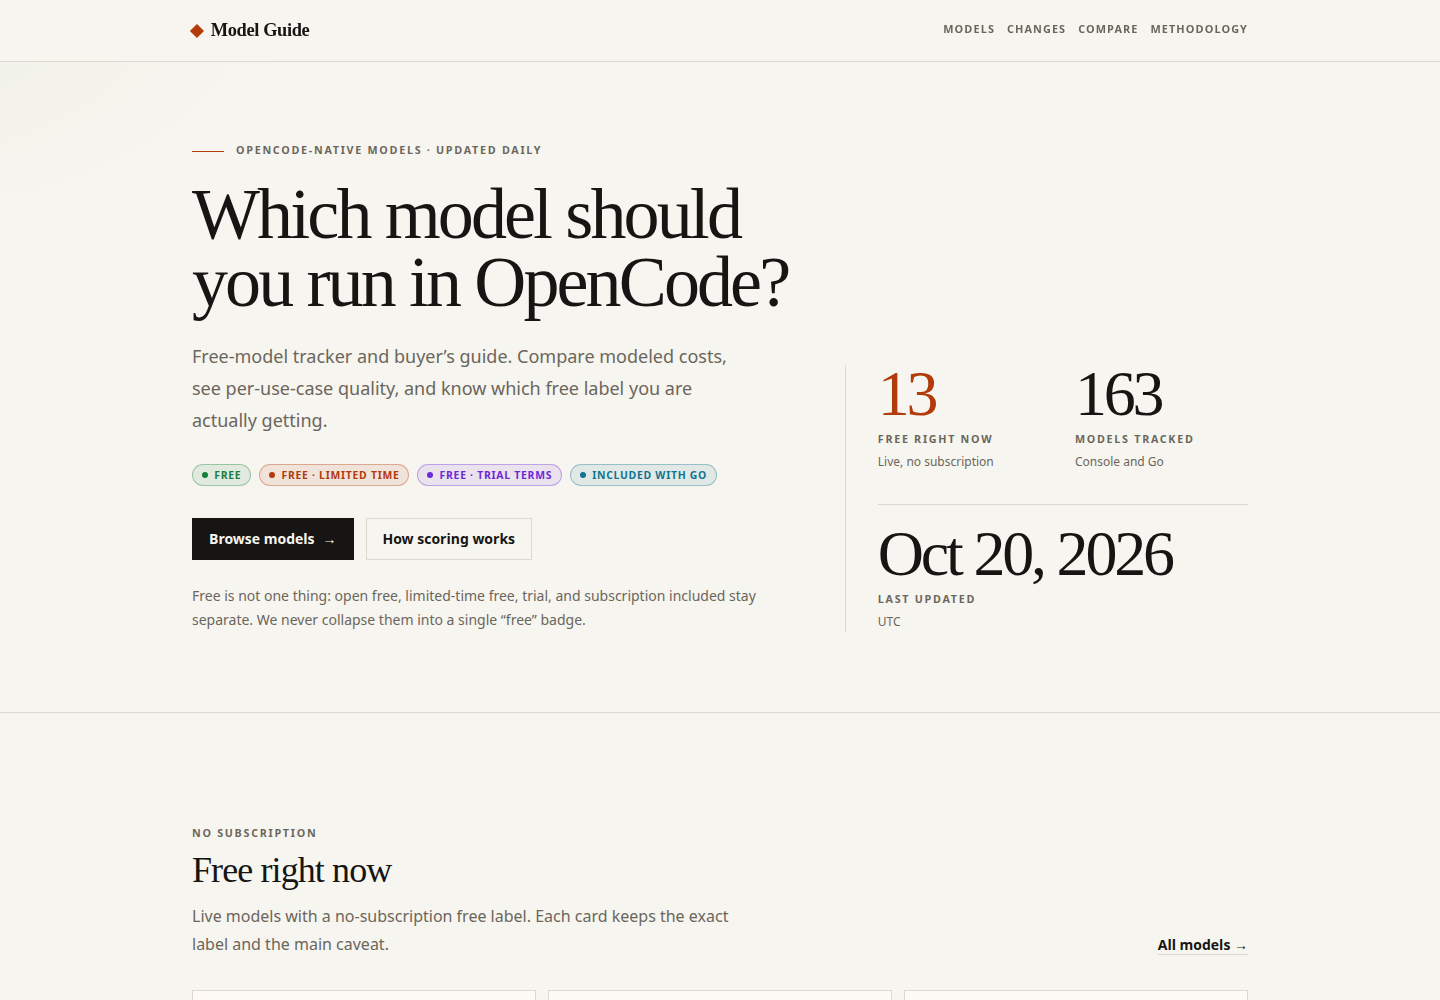
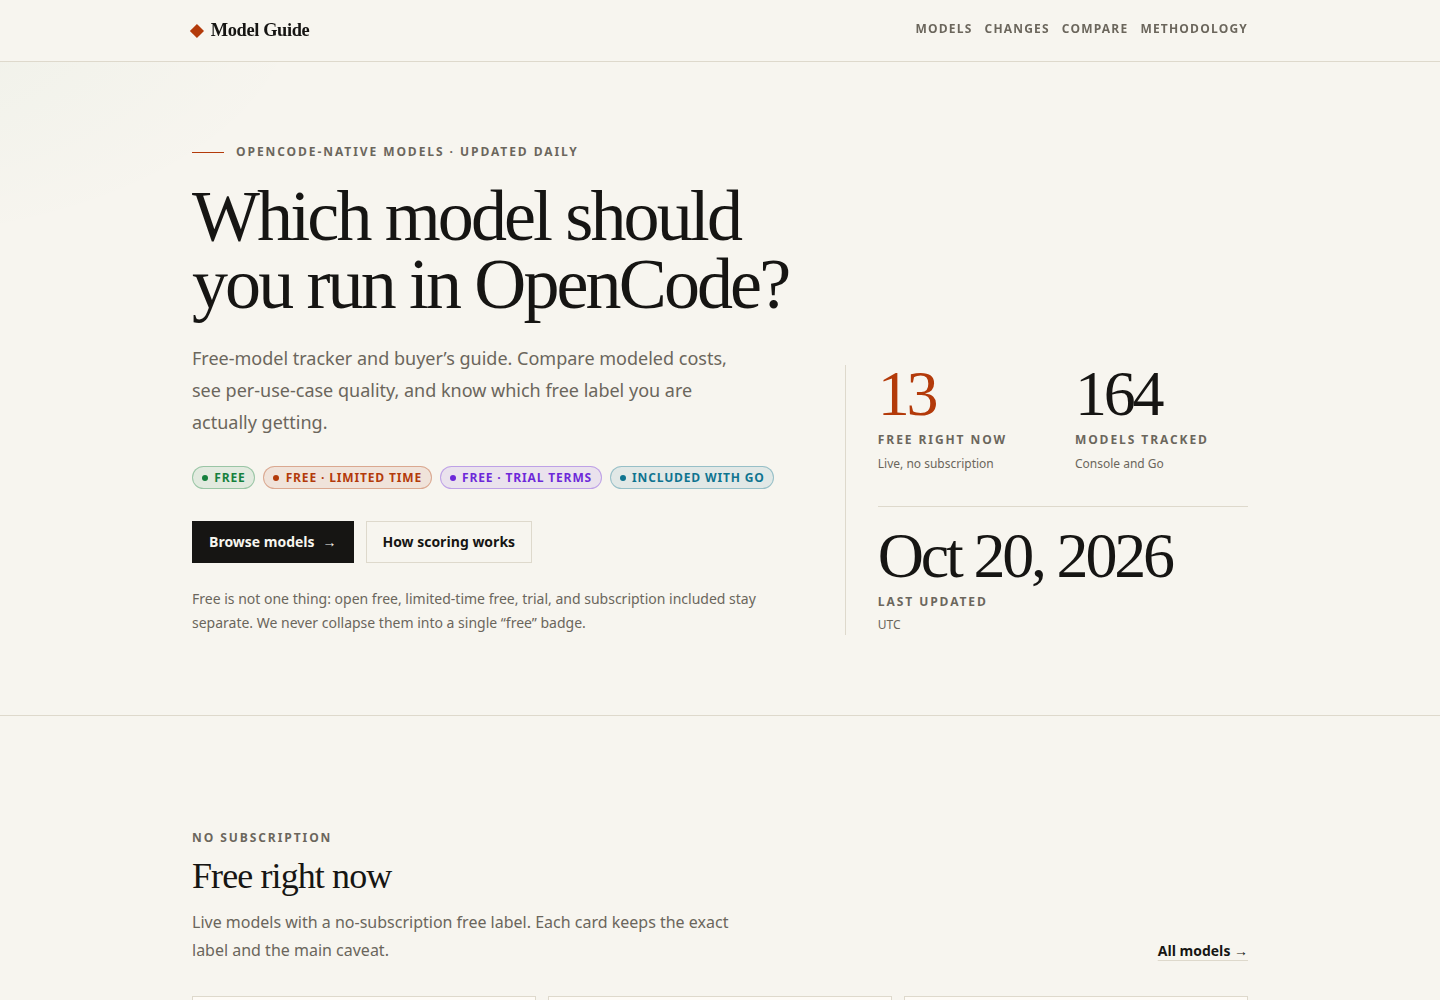
test: sync health counts and refresh screenshot

diff --git a/apps/web/test/health.test.ts b/apps/web/test/health.test.ts
@@ -45,15 +45,15 @@ describe("buildHealth", () => {
     const data = loadData();
     const health = buildHealth(data, NOW);
 
-    expect(health.counts.models).toBe(163);
+    expect(health.counts.models).toBe(164);
     expect(health.counts.freeNow).toBe(13);
     expect(health.counts.zeroMarginal).toBe(79);
     expect(health.counts.benchmarkResults).toBe(1041);
-    expect(health.counts.resolvedBenchmarks).toBe(400);
-    expect(health.counts.unmatchedBenchmarks).toBe(641);
-    expect(health.counts.unmatchedNames).toBe(603);
-    expect(health.counts.scoreRecords).toBe(163);
-    expect(health.counts.ratedModels).toBe(96);
+    expect(health.counts.resolvedBenchmarks).toBe(403);
+    expect(health.counts.unmatchedBenchmarks).toBe(638);
+    expect(health.counts.unmatchedNames).toBe(602);
+    expect(health.counts.scoreRecords).toBe(164);
+    expect(health.counts.ratedModels).toBe(97);
     expect(health.counts.conflicts).toBe(8);
     expect(health.sources).toHaveLength(10);
     expect(health.sources.find((source) => source.id === "terminal-bench")).toMatchObject({
@@ -72,8 +72,8 @@ describe("buildHealth", () => {
       resolution: expect.stringMatching(/preferred|unresolved/),
     });
     expect(health.useCases.find((row) => row.useCase === "frontend")).toMatchObject({
-      rated: 94,
-      total: 163,
+      rated: 95,
+      total: 164,
     });
   });
 });

diff --git a/docs/launch-checklist.md b/docs/launch-checklist.md
@@ -46,9 +46,9 @@ evidence for each claim.
 | Feed | https://cjrutherford.github.io/opencode-model-guide/feed.xml |
 | First workflow dispatch | `39499478587`, success, 7 minutes |
 | First data commit | `257c815`, message includes `[skip ci]` |
-| Build | 169 pages, 163 model detail pages |
-| Data validation | `snapshot.json` 163 models, `benchmarks.json` 1,041 results, `scores.json` 163 records |
-| Link check | 3,048 internal links in 169 files, 0 broken |
+| Build | 170 pages, 164 model detail pages |
+| Data validation | `snapshot.json` 164 models, `benchmarks.json` 1,041 results, `scores.json` 164 records |
+| Link check | 3,068 internal links in 170 files, 0 broken |
 | Lighthouse, home mobile | 100 performance, 100 accessibility, 100 best practices, 100 SEO |
 | Lighthouse, models mobile | 99–100 performance, 100 accessibility, 100 best practices, 100 SEO |
 | Lighthouse, home desktop | 100 / 100 / 100 / 100 |
